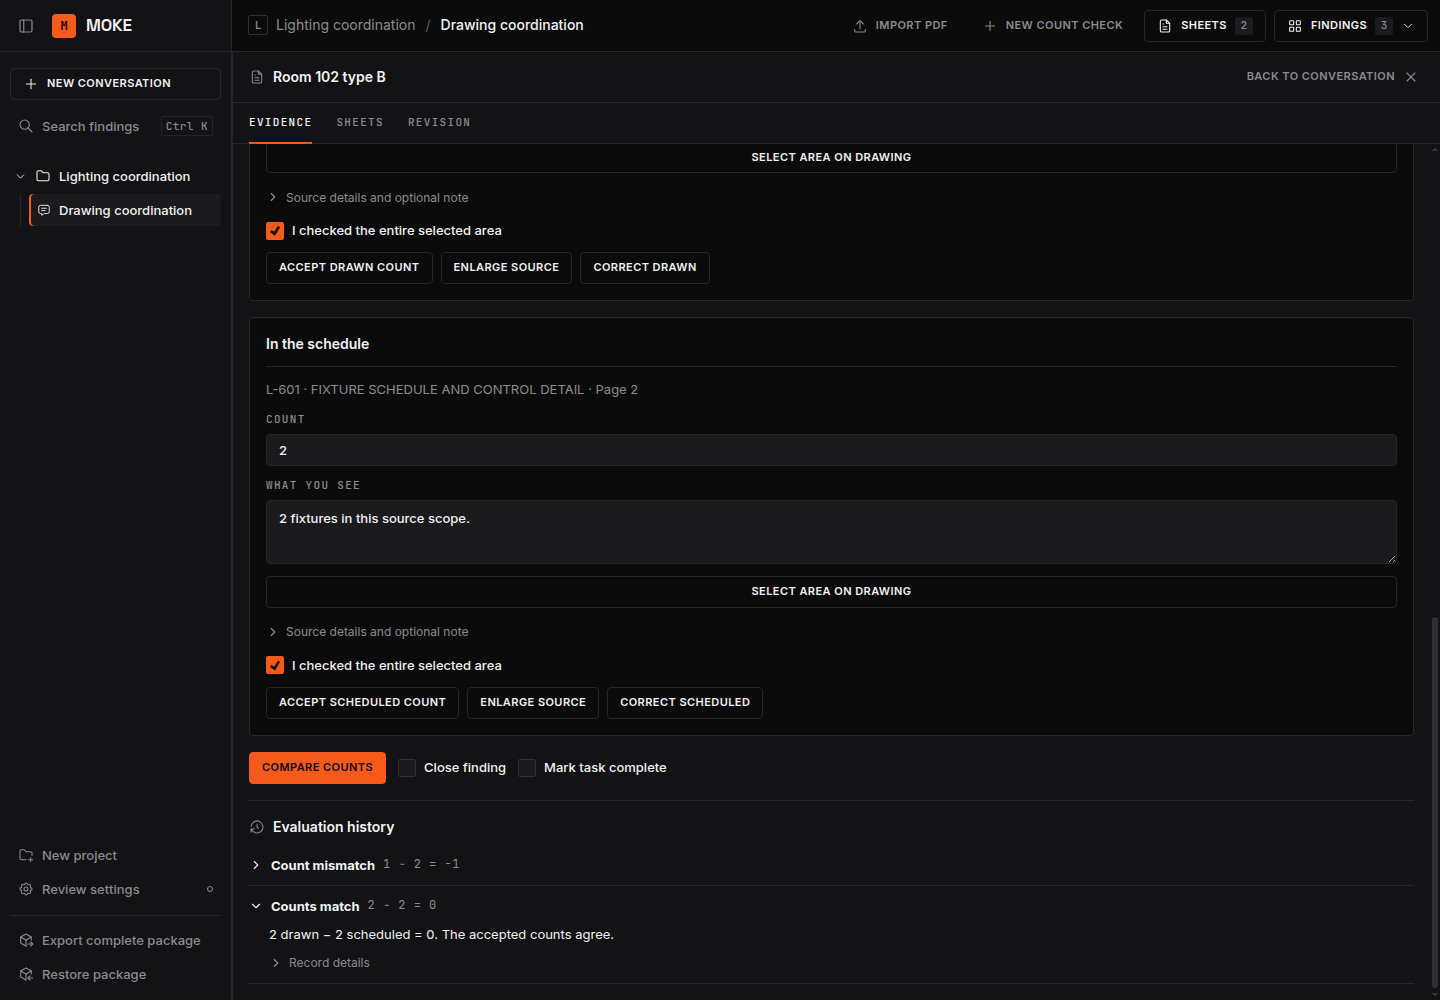
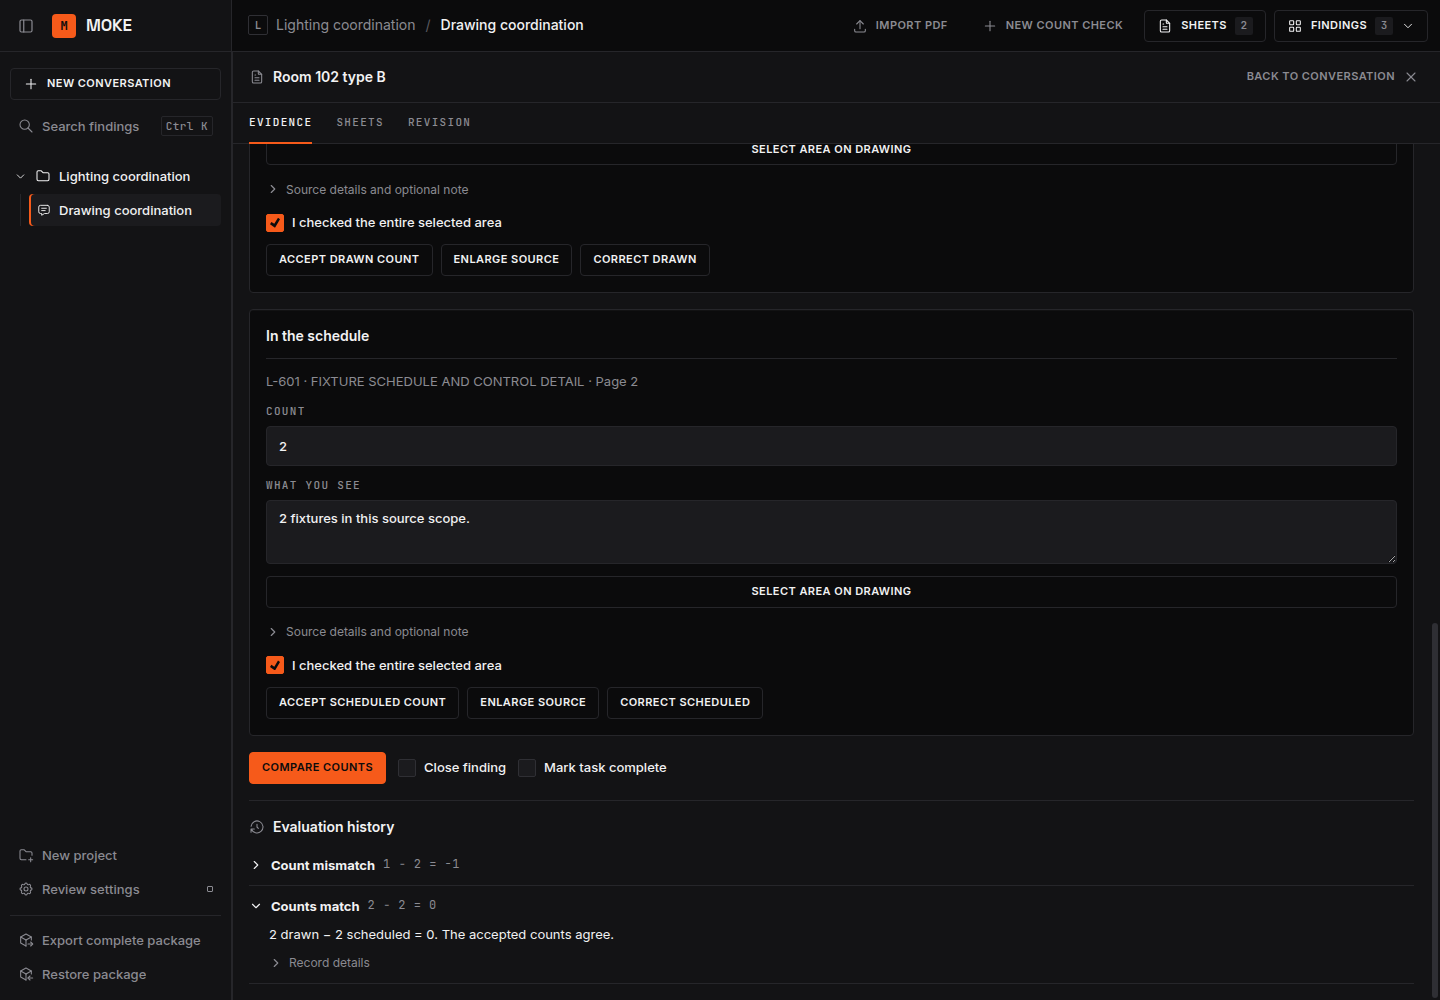
Address council round 1: focus on current items, selectable sources, Forge control sizes

Changed region(s): [[0.1875, 0.186, 0.5, 0.279], [0.1875, 0.31, 0.4375, 0.434], [0.5, 0.124, 0.6562, 0.186]]

diff --git a/src/lib/review/components/ReviewWorkbench.svelte b/src/lib/review/components/ReviewWorkbench.svelte
@@ -2382,7 +2382,7 @@
                   {#if message.role === "reviewer"}<span class="user-mark">S</span
                     >{:else}{@render mark(20)}{/if}<strong
                     >{message.role === "reviewer" ? "You" : "MOKE"}</strong
-                  >{#if message.origin}<span class="message-provenance"
+                  >{#if message.origin}<span class="message-provenance selectable"
                       >Inspection · {message.origin.discipline?.replaceAll("_", " ") ??
                         "general"}</span
                     >{/if}
@@ -2909,7 +2909,7 @@
                     notice = "Review area selected. Confirm its count below.";
                   }}
                 />{/if}
-              {#if previewedSheet && sourceArtifact}<div class="source-provenance">
+              {#if previewedSheet && sourceArtifact}<div class="source-provenance selectable">
                   <strong>{previewedSheet.label}</strong><span
                     >{revisions.find((item) => item.id === previewedSheet?.revisionId)?.name} · page
                     {previewedSheet.pageIndex + 1} · {sourceArtifact.dpi} DPI</span
@@ -2966,7 +2966,7 @@
                   masks={focusMasks}
                   label="Original source render"
                 />{/if}
-              <div class="source-provenance">
+              <div class="source-provenance selectable">
                 <strong>{previewedSheet.label}</strong><span
                   >{revisions.find((item) => item.id === previewedSheet?.revisionId)?.name} · page {previewedSheet.pageIndex +
                     1}{sourceIsCrop ? " · partial view of this page" : ""}</span
@@ -3216,14 +3216,18 @@
     border-bottom: 1px solid var(--color-border);
   }
   .menu-section-label {
-    margin: var(--space-xs) 0 0;
-    padding: var(--space-sm) var(--space-sm) var(--space-2xs);
-    border-top: 1px solid var(--color-border);
+    margin: 0;
+    padding: var(--space-xs) var(--space-sm) var(--space-2xs);
     color: var(--color-text-muted);
     font-family: var(--font-mono);
     font-size: var(--text-label-sm);
     letter-spacing: var(--tracking-wider);
     text-transform: uppercase;
+  }
+  .menu-section-label:not(:first-child) {
+    margin-top: var(--space-xs);
+    padding-top: var(--space-sm);
+    border-top: 1px solid var(--color-border);
   }
   .review-scope {
     font-size: var(--text-mono-sm);
@@ -3328,6 +3332,11 @@
     color: var(--color-text);
     box-shadow: inset 2px 0 0 var(--color-ember);
   }
+  .threads button.current:focus-visible {
+    box-shadow:
+      inset 2px 0 0 var(--color-ember),
+      var(--shadow-focus-ring);
+  }
   .sidebar-footer {
     margin-top: auto;
     padding-top: var(--space-lg);
@@ -3340,7 +3349,7 @@
     width: 6px;
     height: 6px;
     flex-shrink: 0;
-    border-radius: var(--radius-full);
+    border-radius: 1px;
     border: 1px solid var(--color-ash);
   }
   .connection-dot.connected {
@@ -3720,11 +3729,8 @@
     background: var(--color-ember);
   }
   .source-tabs button:focus-visible {
-    box-shadow: none;
+    border-radius: var(--radius-sm);
     color: var(--color-text);
-  }
-  .source-tabs button:focus-visible::after {
-    background: var(--color-ember);
   }
   .source-scroll {
     flex: 1;
@@ -3819,6 +3825,11 @@
   }
   .finding-row.selected {
     box-shadow: inset 2px 0 0 var(--color-ember);
+  }
+  .finding-row.selected:focus-visible {
+    box-shadow:
+      inset 2px 0 0 var(--color-ember),
+      var(--shadow-focus-ring);
   }
   .finding-row > :global(svg) {
     color: var(--color-text-muted);
@@ -4332,7 +4343,7 @@
     gap: var(--space-sm);
     padding: 40px 20px;
     margin-top: 20px;
-    border: 1px dashed var(--color-border-strong);
+    border: 1px solid var(--color-border);
     border-radius: var(--radius-md);
     background: var(--color-slate);
     color: var(--color-text-muted);

diff --git a/src/lib/forge.css b/src/lib/forge.css
@@ -146,9 +146,29 @@ img {
   box-shadow: var(--shadow-focus-ring);
 }
 
-* {
-  scrollbar-width: thin;
-  scrollbar-color: var(--color-border-strong) transparent;
+/* Chromium ignores these pseudo-elements when scrollbar-width or scrollbar-color is set. */
+::-webkit-scrollbar {
+  width: 10px;
+  height: 10px;
+}
+
+::-webkit-scrollbar-track,
+::-webkit-scrollbar-corner {
+  background: transparent;
+}
+
+::-webkit-scrollbar-thumb {
+  border: 2px solid transparent;
+  border-radius: var(--radius-full);
+  background: var(--color-border-strong) padding-box;
+}
+
+::-webkit-scrollbar-thumb:hover {
+  background-color: var(--color-ash-soft);
+}
+
+::-webkit-scrollbar-button {
+  display: none;
 }
 
 a {
@@ -202,7 +222,7 @@ kbd {
   select,
   textarea
 ) {
-  min-height: 32px;
+  min-height: 40px;
   padding: 0 var(--space-sm);
   border: 1px solid var(--color-border);
   border-radius: var(--radius-md);
@@ -379,7 +399,7 @@ kbd {
 }
 
 :where(dialog)::backdrop {
-  background: rgb(0 0 0 / 0.6);
+  background: rgb(0 0 0 / 0.75);
 }
 
 /* Buttons. Sizes follow Forge: sm 32px with label-sm type, md 40px. */
@@ -425,6 +445,14 @@ kbd {
 
 .btn.primary:focus-visible {
   box-shadow: var(--shadow-focus-ring);
+}
+
+/* A faded Ember fill reads as a second, brown accent, so disabled primaries go neutral. */
+.btn.primary:disabled {
+  border-color: var(--color-border);
+  background: var(--color-slate);
+  color: var(--color-text-muted);
+  opacity: 1;
 }
 
 .btn.ghost-btn {
@@ -475,8 +503,8 @@ kbd {
   flex-shrink: 0;
   align-items: center;
   gap: var(--space-2xs);
-  height: 20px;
-  padding: 0 6px;
+  height: 22px;
+  padding: 0 var(--space-xs);
   border: 1px solid var(--color-border);
   border-radius: var(--radius-sm);
   color: var(--color-text-muted);

diff --git a/src/lib/review/components/SheetSetup.svelte b/src/lib/review/components/SheetSetup.svelte
@@ -291,7 +291,7 @@
                 aria-label={`Preview ${sheet.label}`}
                 onclick={() => onPreview(sheet)}><SheetThumbnail {sheet} {loadThumbnail} /></button
               >{/if}
-            <span class="sheet-identity" title={sheetCaption(sheet)}
+            <span class="sheet-identity selectable" title={sheetCaption(sheet)}
               ><strong>{sheet.label}</strong><small
                 >Original PDF page {sheet.pageIndex + 1}{!sheet.confirmed
                   ? " · label unverified"
@@ -615,8 +615,11 @@
     color: var(--color-text-muted);
     font-size: var(--text-mono-sm);
   }
-  .sheet-row select {
+  /* Row controls stay at the 32px small-button height so each sheet row lines up. */
+  .sheet-row select,
+  .bulk-actions select {
     min-width: 0;
+    min-height: 32px;
   }
   .sheet-row.with-thumbnail {
     grid-template-columns: 18px 32px minmax(90px, 1fr) minmax(110px, 150px) auto;

diff --git a/desktop/main.ts b/desktop/main.ts
@@ -5,6 +5,7 @@ import {
   dialog,
   ipcMain,
   Menu,
+  nativeTheme,
   net,
   protocol,
   shell,
@@ -453,9 +454,13 @@ if (!app.requestSingleInstanceLock()) {
       });
 
       const createWindow = async () => {
+        // The renderer is dark only; match native chrome and the first paint to it.
+        nativeTheme.themeSource = "dark";
+
         const window = new BrowserWindow({
           width: 1100,
           height: 760,
+          backgroundColor: "#0b0b0c",
           webPreferences: {
             preload: join(root, "dist/preload/preload.cjs"),
             nodeIntegration: false,

diff --git a/src/lib/review/components/ReviewSelect.svelte b/src/lib/review/components/ReviewSelect.svelte
@@ -29,7 +29,7 @@
   function positionMenu() {
     if (!trigger || !menu) return;
     const anchor = trigger.getBoundingClientRect();
-    const width = Math.min(Math.max(anchor.width, 240), window.innerWidth - 24);
+    const width = Math.min(Math.max(anchor.width, 300), window.innerWidth - 24);
     const height = Math.min(menu.scrollHeight, window.innerHeight - 24, 320);
     menu.style.width = `${width}px`;
     menu.style.left = `${Math.max(12, Math.min(anchor.left, window.innerWidth - width - 12))}px`;

diff --git a/src/lib/review/components/SourceViewer.svelte b/src/lib/review/components/SourceViewer.svelte
@@ -425,6 +425,11 @@
     background: var(--color-slate);
     box-shadow: inset 2px 0 0 var(--color-ember);
   }
+  .sheet-option[aria-current="page"]:focus-visible {
+    box-shadow:
+      inset 2px 0 0 var(--color-ember),
+      var(--shadow-focus-ring);
+  }
   .viewport {
     position: relative;
     flex: 1;

diff --git a/src/lib/review/components/PacketReviewPanel.svelte b/src/lib/review/components/PacketReviewPanel.svelte
@@ -827,8 +827,8 @@
     order: 0;
     display: inline-flex;
     align-items: center;
-    height: 20px;
-    padding: 0 6px;
+    height: 22px;
+    padding: 0 var(--space-xs);
     border: 1px solid var(--color-border);
     border-radius: var(--radius-sm);
     color: var(--color-text-muted);

diff --git a/docs/research/core-implementation-sources.md b/docs/research/core-implementation-sources.md
@@ -6,7 +6,7 @@ Evidence checked 27 October 2026 for the [core implementation plan](../core-impl
 
 - [Review loop inference harness](t3-thread://v1/3fcb26c2-f0ef-48b8-909a-e1b8759ea113) records the SDK comparison, Grok critique, and the user's selection of local Pi Durable with an explicit Modal Sandbox handoff. The research and decision were merged before this planning task.
[1 lines of base64/hex data omitted]
-- [Runtime decision](../review-runtime.md), [SDK comparison](agent-harness-comparison.md), [model reference](../models.md), [data lifecycle](../data.md), [deployment](../deployment.md), [product brief](../../PRODUCT.md), [UI study](../../design/concepts/DESIGN.md) and `.project-kit/manifest.json` establish the current project boundaries.
+- [Runtime decision](../review-runtime.md), [SDK comparison](agent-harness-comparison.md), [model reference](../models.md), [data lifecycle](../data.md), [deployment](../deployment.md), [product brief](../../PRODUCT.md), [workbench design](../../design/DESIGN.md) and `.project-kit/manifest.json` establish the current project boundaries.
 - The current backend has a 64 KiB request limit, rejects browser-origin calls, and requires the private launch credential. `backend/application.ts` serializes operations and recovery with one semaphore and scopes SQL resources per operation. `desktop/main.ts` restricts renderer RPC to the trusted top-level frame. Adding large-media transfer must account for those existing boundaries.
 - The review engine is selected but unimplemented. There is no installed Pi, PDF engine or Modal client in `package.json`. Do not confuse the current notes smoke screen or sample UI study with implemented drawing review.
 

diff --git a/design/DESIGN.md b/design/DESIGN.md
@@ -26,8 +26,9 @@ layout. Components use the tokens directly; there is no second UI system.
   checkboxes, 8px for dialogs, menus and popovers. Borders are 1px hairlines.
   Only menus, popovers and dialogs use the floating shadow.
 - **Controls.** Buttons are uppercase Inter at 11px: Ember primary, hairline
-  secondary and ghost. Inputs are Slate wells that take an Ember edge and halo
-  on focus. Checkboxes use Forge's clipped tick. Tabs use mono labels with a 2px
+  secondary and ghost, 32px tall in toolbars and rows and 40px in dialogs.
+  Inputs are 40px Slate wells that take an Ember edge and halo on focus; the
+  selects inside sheet rows use the 32px button height so each row lines up. Checkboxes use Forge's clipped tick. Tabs use mono labels with a 2px
   Ember underline.
 - **Icons.** Tabler outline icons only, at a 1.6 stroke (1.8 on Ember buttons).
   `src/lib/review/icons.ts` copies the official paths, and
@@ -41,7 +42,11 @@ layout. Components use the tokens directly; there is no second UI system.
 - Interface chrome is not selectable. Prose, findings, sources and form fields
   remain selectable, and selected text uses Forge's Ember highlight.
 - Focus rings appear only for keyboard focus: a 1px Ember edge with the Forge
-  halo. Mouse clicks do not leave rings behind.
+  halo, kept alongside the Ember bar on current items. Mouse clicks do not leave
+  rings behind.
+- Disabled primary buttons turn neutral; a faded Ember fill reads as brown.
+- Native window chrome follows the dark theme, and scrollbars drop their arrow
+  buttons.
 - The brand mark follows Forge's mono letter in an Ember square.
 - Header actions that would crowd the breadcrumb become icon buttons below
   1180px wide.
